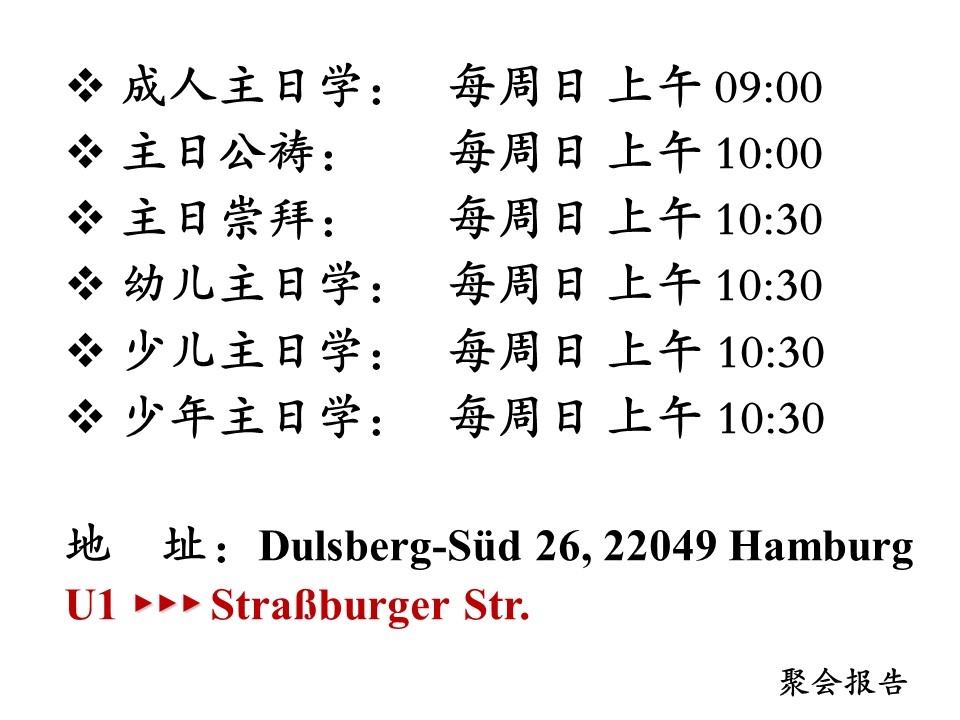
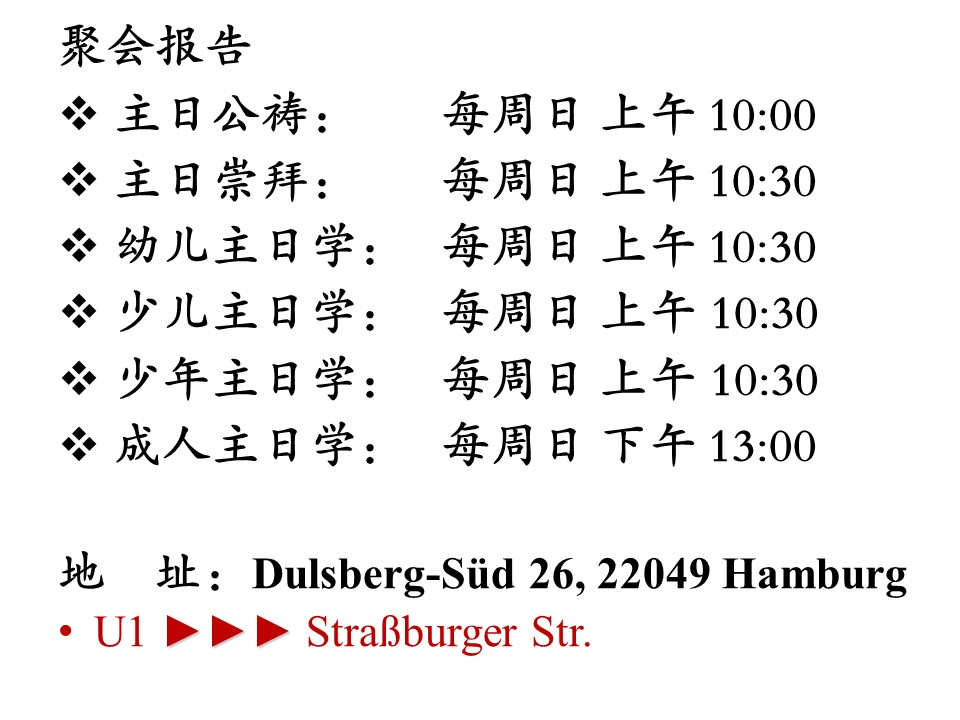
change the report template and text bound adjustment to avoid overflow

diff --git a/pygod/apps/ppt_worker/scripts/ppt_worker.py b/pygod/apps/ppt_worker/scripts/ppt_worker.py
@@ -379,7 +379,8 @@ class MakeWorkshipPpt(object):
                           'font_global':f'{self.font_type_kaiti}'+'+44+True',
                           'font_run':f'{self.font_type_kaiti}'+'+48+True',
                           'alignment':'LEFT+52+12+0+0',
-                          'textbox': ['Cm(1.44)','Cm(1.44)','Cm(22.91)','Cm(15.72)']}
+                          'textbox': ['Cm(0.5)','Cm(0.5)','Cm(25.4)','Cm(15.72)']}
+                        #   'textbox': ['Cm(1.44)','Cm(1.44)','Cm(22.91)','Cm(15.72)']}
         
         footnote_format = {'cont':'',
                            'font_global':f'{self.font_type_kaiti}'+'+24+True',
@@ -402,6 +403,10 @@ class MakeWorkshipPpt(object):
         for i in range(1, len(pray_items)):
             if sum([len(pray_items[j]) for j in range(previous_ix, i)])>max_chars_per_slide:
                 content_format['cont'] = pray_items[previous_ix: i]
+                if len(' '.join(content_format['cont']))<120:
+                    content_format['textbox'] = ['Cm(1.44)','Cm(1.44)','Cm(22.91)','Cm(15.72)']
+                else:
+                    content_format['textbox'] = ['Cm(0.5)','Cm(0.5)','Cm(25.4)','Cm(15.72)']
                 slide = self.make_one_slide(blocks = [content_format, footnote_format], middle_vertical=False)
                 previous_ix = i
         #make one more slide at the end boundary
@@ -415,7 +420,8 @@ class MakeWorkshipPpt(object):
                             'font_global':f'{self.font_type_zhunyuan}'+'+80+True',
                             'font_run':f'{self.font_type_zhunyuan}'+'+80+True',
                             'alignment':'CENTER+94+0+0+0',
-                            'textbox': ['Cm(1.75)','Cm(5.24)','Cm(21.91)','Cm(3.68)']}
+                            'textbox': ['Cm(0)','Cm(5.24)','Cm(25.4)','Cm(3.68)']}
+                            # 'textbox': ['Cm(1.75)','Cm(5.24)','Cm(21.91)','Cm(3.68)']}
 
         subtitle_format = {'cont':'',
                             'font_global':'方正准圆简体+40+False',
@@ -427,7 +433,8 @@ class MakeWorkshipPpt(object):
                             'font_global':f'{self.font_type_zhunyuan}'+'+48+False',
                             'font_run':f'{self.font_type_zhunyuan}'+'+48+False',
                             'alignment':'CENTER+70+0+0+0',
-                            'textbox': ['Cm(1.03)','Cm(1.13)','Cm(23.87)','Cm(15.6)']}
+                            'textbox': ['Cm(0)','Cm(1.13)','Cm(25.4)','Cm(15.6)']}
+                            # 'textbox': ['Cm(1.03)','Cm(1.13)','Cm(23.87)','Cm(15.6)']}
 
         script_footnote_format = {'cont':'',
                             'font_global':f'{self.font_type_kaiti}'+'+24+False',
